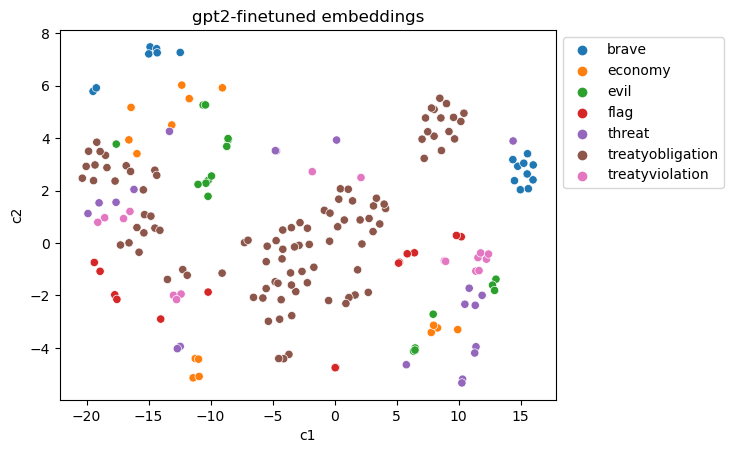
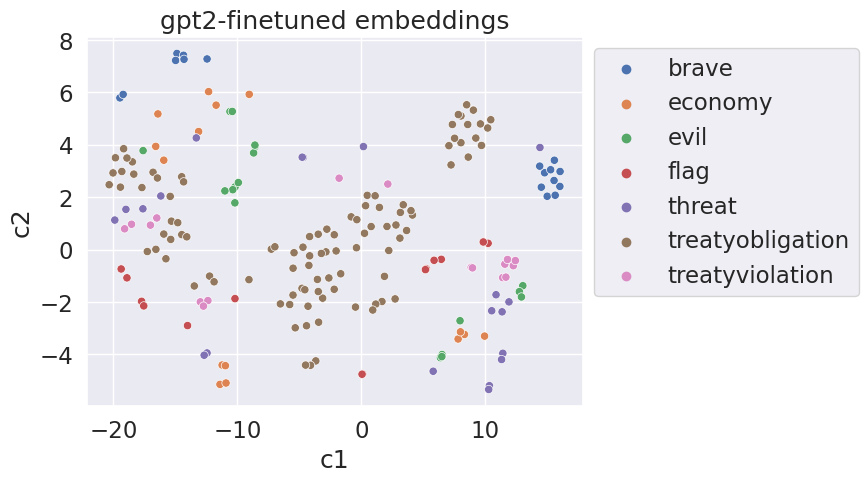
Updated alias check plots

diff --git a/code/sanity_check.py b/code/sanity_check.py
@@ -65,6 +65,7 @@ tsne_df = pd.DataFrame()
 tsne_df['c1'] = embeds_t[:,0]
 tsne_df['c2'] = embeds_t[:,1]
 
+sns.set(font_scale=1.5)
 ax = sns.scatterplot(x='c1', y='c2', hue=colors, data=tsne_df)
 sns.move_legend(ax, "upper left", bbox_to_anchor=(1, 1))
 if args.title == None:
